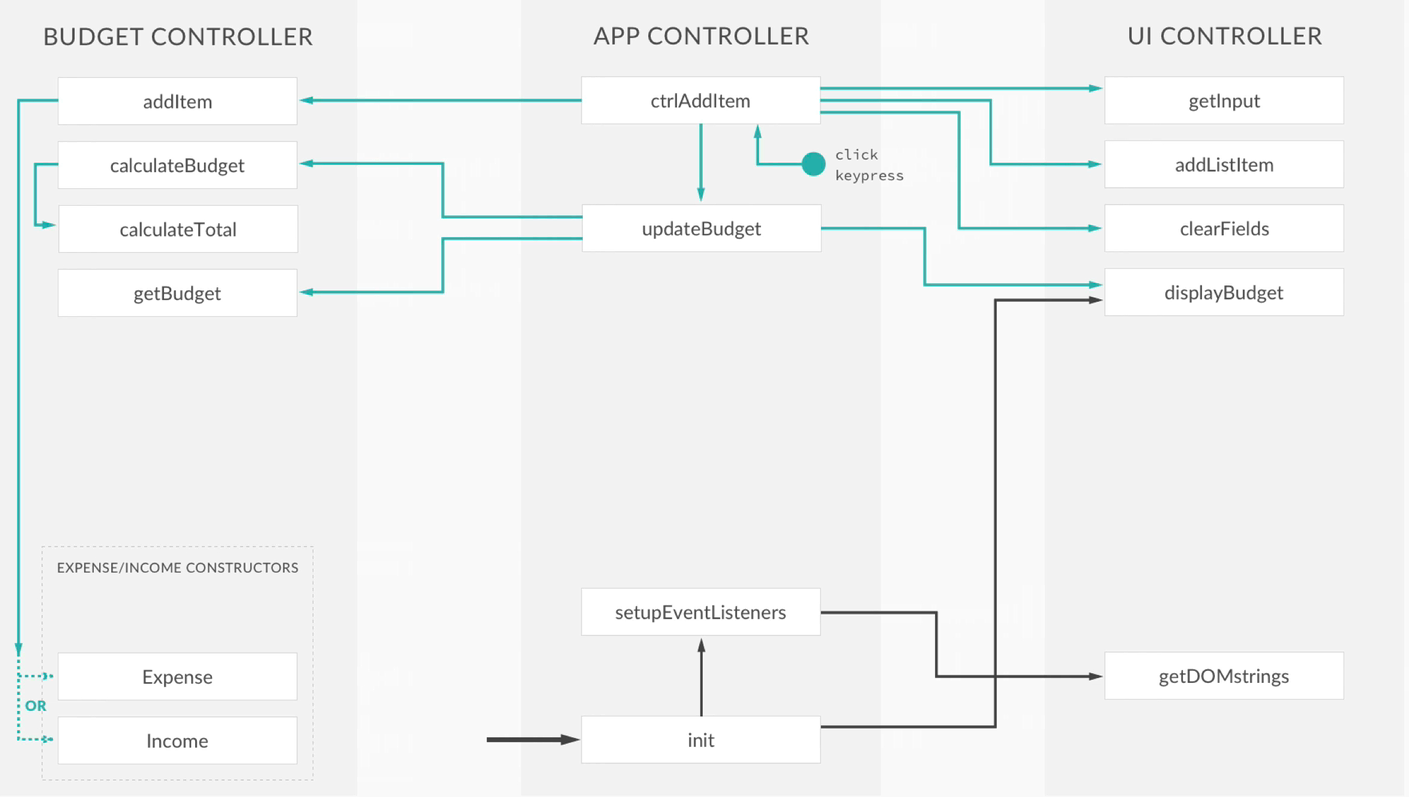
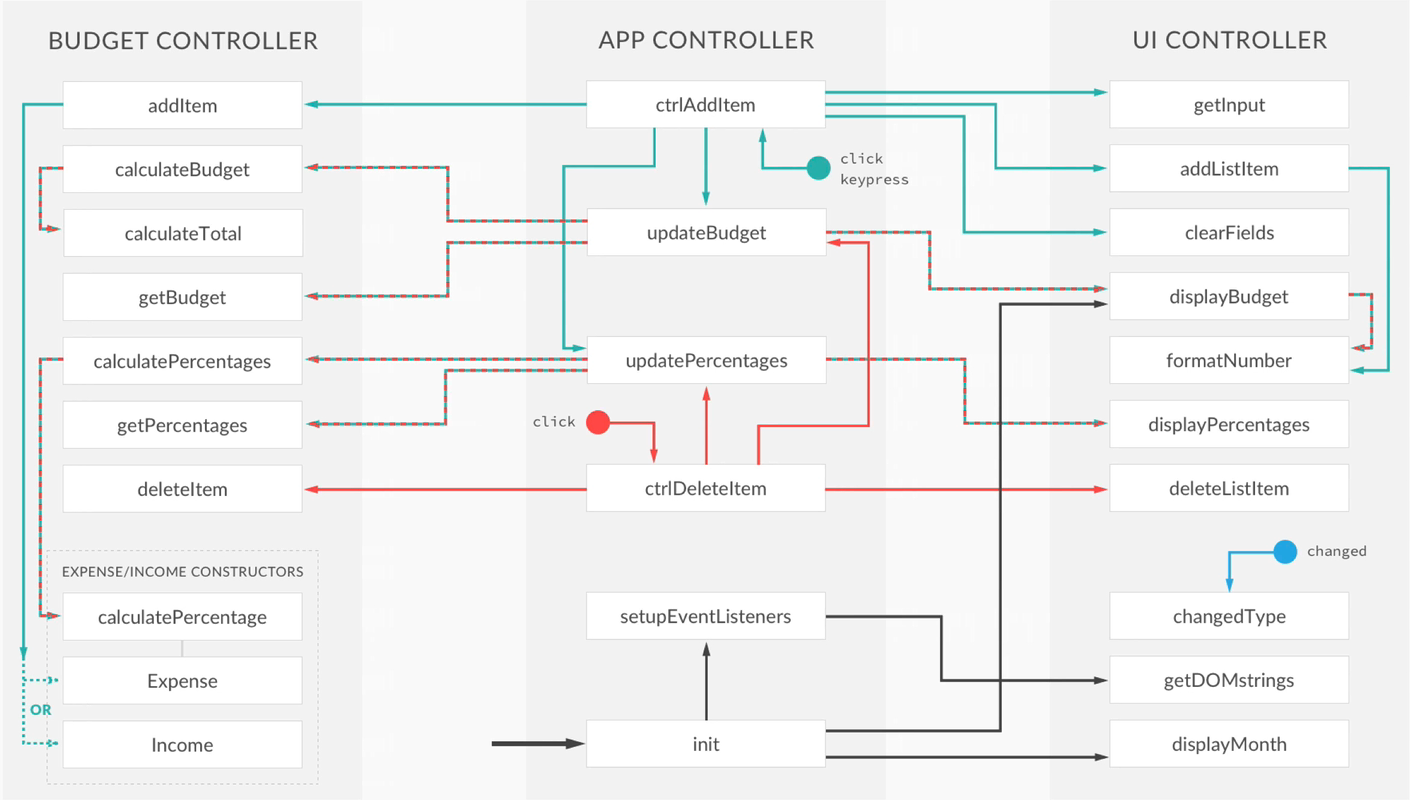
complete

diff --git a/readme.md b/readme.md
@@ -1,1 +1,3 @@
 ## App to keep track of expenses
+
+![Final architecture](https://github.com/arstrel/budgety/blob/master/Structure.PNG)
